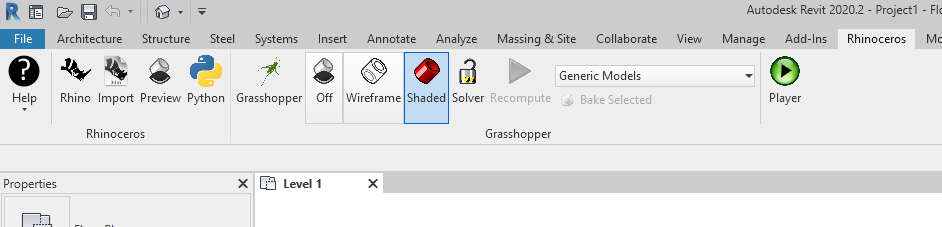
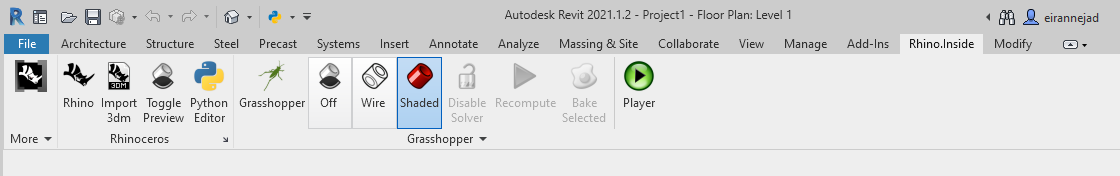
updated website with new ui changes

diff --git a/docs/pages/_en/beta/reference/rir-interface.md b/docs/pages/_en/beta/reference/rir-interface.md
@@ -6,11 +6,11 @@ group: User Interface
 
 ## Loading {{ site.terms.rir }}
 
-One Revit is loaded, click on the Rhino button under *Revit > Addins* tab to load the {{ site.terms.rir }}
+One Revit is loaded, click on the *Start* button under *Revit > Rhino.Inside* tab to load the {{ site.terms.rir }}
 
 ![]({{ "/static/images/reference/rir-interface01.png" | prepend: site.baseurl }})
 
-### Button Click Modes
+### Start Button Click Modes
 
 {% include ltr/kb_shortcut.html keys='Ctrl' click=true %}
 
@@ -20,9 +20,15 @@ Launches the {{ site.terms.rhino }} about window that shows the exact version nu
 
 Launches the debug info collector window. See **Submitting Debug Info** under [Troubleshooting]({{ site.baseurl }}{% link _en/beta/reference/toubleshooting.md %})
 
+### "More" Slideout
+
+There is a slideout under the *Start* button that contains informational tools and the {{ site.terms.rir }} Settings
+
+![]({{ "/static/images/reference/more-slideout.png" | prepend: site.baseurl }})
+
 ## {{ site.terms.rir }} Tab
 
-Once {{ site.terms.rir }} is loaded and licensed, it creates a new ribbon in Revit interface named *Rhinoceros*
+Once {{ site.terms.rir }} is loaded and Rhino is licensed, it creates a new panels under the *Rhino.Inside* tab
 
 ![]({{ "/static/images/ribbon/ribbon.png" | prepend: site.baseurl }})
 
@@ -33,6 +39,60 @@ Here is a description of the buttons and functionality available on this ribbon.
 {% include ltr/button_table.html buttons=panel.comps %}
 {% endfor %}
 
+### Rhino Options
 
+Rhino options window is easily accessible using the arrow-shaped button at the corner of the *Rhinoceros* panel
 
+![]({{ "/static/images/reference/rhinooptions.png" | prepend: site.baseurl }})
 
+## {{ site.terms.rir }} Options
+
+{{ site.terms.rir }} Settings window has a series of options that can configure the {{ site.terms.rir }} behavior:
+
+### General Options
+
+You can choose to Start Rhino automatically, and adjust other general settings from here:
+
+![]({{ "/static/images/reference/settings-general.png" | prepend: site.baseurl }})
+
+### Checking for Updates
+
+Update channels can be set here. You can subscribe to *Stable Public* updates or *Daily (Work in Progress)*
+
+![]({{ "/static/images/reference/settings-updatechannels.png" | prepend: site.baseurl }})
+
+If there are any updates available, both the Start and Options buttons will show a notification dot and the new update release info on the tooltip:
+
+![]({{ "/static/images/reference/updates-new-notif.png" | prepend: site.baseurl }})
+
+You can get the information and download the installer from *Options / Updates*:
+
+![]({{ "/static/images/reference/updates-newavailable.png" | prepend: site.baseurl }})
+
+## Grasshopper Scripts
+
+Grasshopper scripts can be loaded into the Revit UI. Create a directory on your machine that contains Grasshopper (`*.gh` or `*.ghx`) scripts. All the scripts at the root of this directory will be added as button to a new panel with the name of this directory. All other sub-directories will be converted into pull-down buttons on the ribbon.
+
+### Loading Grasshopper Scripts into Ribbon
+
+This is an example of a directory (named `My RIR Tools`) with two Grasshopper scripts, and an `Examples` sub-directory with more Grasshopper scripts:
+
+![]({{ "/static/images/reference/settings-gh-scripts-dir.png" | prepend: site.baseurl }})
+
+Now add the path to this directory inside the {{ site.terms.rir }} *Options / Scripts*:
+
+![]({{ "/static/images/reference/settings-addscripts.png" | prepend: site.baseurl }})
+
+The *"Use Script Locations"* list will show all the directories that will be loaded into the UI:
+
+![]({{ "/static/images/reference/settings-addscripts-myrirtools.png" | prepend: site.baseurl }})
+
+Once settings are applied, the scripts will be loaded into the UI and are easily accessible:
+
+![]({{ "/static/images/reference/settings-addscripts-loadedtools.png" | prepend: site.baseurl }})
+
+### Rhino Package Manager
+
+Rhino package manager can be used to install Rhino and Grasshopper packages, and {{ site.terms.rir }} scripts.
+
+![]({{ "/static/images/reference/rhinoyak.png" | prepend: site.baseurl }})

diff --git a/docs/pages/_en/beta/reference/release-notes.md b/docs/pages/_en/beta/reference/release-notes.md
@@ -5,11 +5,23 @@ group: Deployment & Configs
 ---
 
 {% capture breaking_changes_notes %}
-Some of the changes mentioned in sections below, might break your existing Grasshopper definitions. We hope this should not be causing a lot of trouble and rework for you, since in most cases the older components can easily be replaced by new ones without changes to the actual workflow. As always, if you have any issues with loading **Rhino.Inside.Revit** or any of the components, take a look at the [Troubleshooting Guide]({{ site.baseurl }}{% link _en/beta/reference/toubleshooting.md %}) or head out to the [Discussion Forum]({{ site.forum_url }}) to reach out to us. We do our best to resolve the bugs and software conflicts and need your help to make this product better for everyone.
+Some of the changes mentioned in sections below, might break your existing Grasshopper definitions. We hope this should not be causing a lot of trouble and rework for you, since in most cases the older components can easily be replaced by new ones without changes to the actual workflow. As always, if you have any issues with loading **Rhino.Inside.Revit** or any of the components, take a look at the [Troubleshooting Guide]({{ site.baseurl }}{% link _en/beta/reference/troubleshooting.md %}) or head out to the [Discussion Forum]({{ site.forum_url }}) to reach out to us. We do our best to resolve the bugs and software conflicts and need your help to make this product better for everyone.
 {% endcapture %}
 {% include ltr/warning_note.html note=breaking_changes_notes %}
 
 <!-- most recent release should be on top -->
+{% include ltr/release-header.html version="0.1" time="03/04/2021 17:48:12" %}
+
+As part of the preparation for the {{ site.terms.rir }} v1, we have mostly focused on user interface updates in this release. These changes focus on making the {{ site.terms.rir }} easier to use, notify the user about the available updates, and provide a method to deploy and access the Grasshopper scripts easier through the Revit UI.
+
+{% include youtube_player.html id="ogocxN8WXlA" %}
+
+ - **New Rhino.Inside Ribbon:** Checkout the updated [Rhino.Inside Tab]({{ site.baseurl }}{% link _en/beta/reference/rir-interface.md %}#rhinoinsiderevit-tab) page for instructions on how to use the new layout, and the new buttons added to the ribbon.
+- **Settings**: This release adds a Settings window to {{ site.terms.rir }} as well. Checkout the [documentation here]({{ site.baseurl }}{% link _en/beta/reference/rir-interface.md %}#rhinoinsiderevit-settings)
+- **Update Checks**: Checkout the new section on [Checking for Updates]({{ site.baseurl }}{% link _en/beta/reference/rir-interface.md %}#checking-for-updates) to learn how to check for updates and install the *Stable* or *Daily* releases.
+- **Deploying Grasshopper Scripts**: Checkout the [documentation]({{ site.baseurl }}{% link _en/beta/reference/rir-interface.md %}#deploying-grasshopper-scripts) on how to add your scripts to the Revit UI, or install {{ site.terms.rir }} scripts using Rhino package manager
+
+
 {% include ltr/release-header.html version="0.0.7733.38548" time="03/04/2021 17:48:12" %}
 
 ### Fixes
